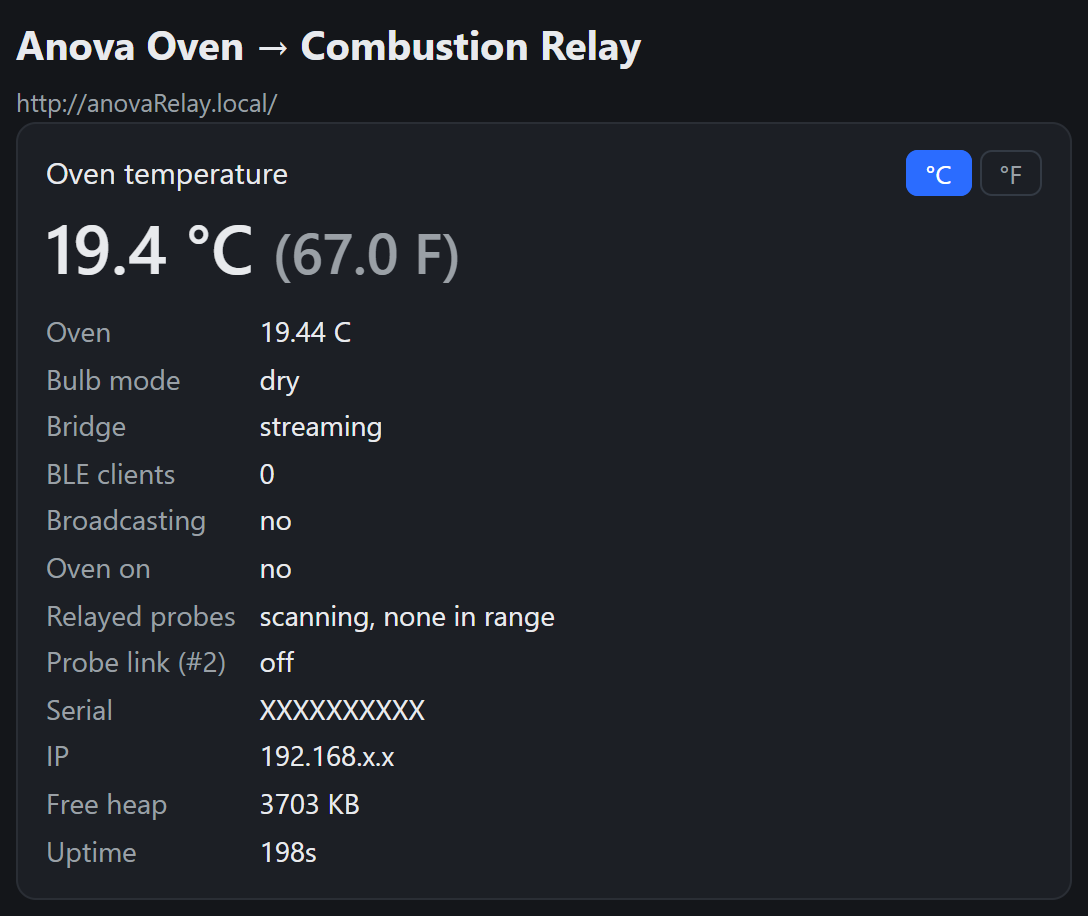
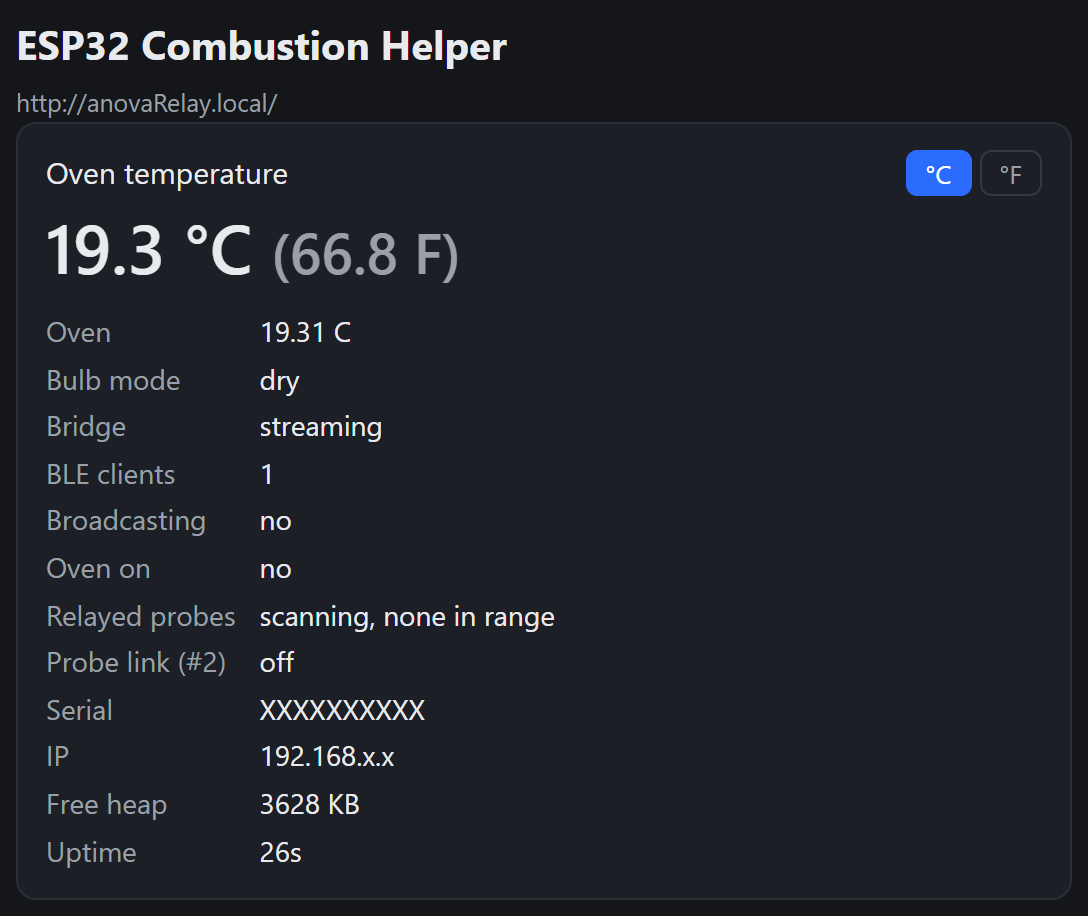
Rename project to ESP32 Combustion Helper
- Web UI title/heading, boot banner and module docstrings.
- README: new title and intro (oven as a Gauge in the Combustion app,
  multi-stage Engine profiles, MeatNet repeater); the device is now "the
  Helper" in the docs.
- Retake the status screenshot with the new name.

diff --git a/web.py b/web.py
@@ -1,4 +1,4 @@
-"""Tiny asyncio web UI for the Anova Oven to Combustion Relay (MicroPython).
+"""Tiny asyncio web UI for the ESP32 Combustion Helper (MicroPython).
 
 Serves a single-page config/control panel on port 80 once WiFi is up:
   GET  /         -> HTML page
@@ -104,7 +104,7 @@ def _parse_form(body):
 
 PAGE = """<!DOCTYPE html><html><head><meta charset="utf-8">
 <meta name="viewport" content="width=device-width,initial-scale=1">
-<title>Anova Oven to Combustion Relay</title>
+<title>ESP32 Combustion Helper</title>
 <style>
 :root{color-scheme:dark}
 *{box-sizing:border-box}
@@ -133,7 +133,7 @@ small{color:#9aa0a6}
 .st small{display:block;font-size:11px;white-space:nowrap;overflow:hidden}
 .st button{margin-top:0;padding:9px 12px}
 </style></head><body><div class="wrap">
-<h1>Anova Oven &rarr; Combustion Relay</h1>
+<h1>ESP32 Combustion Helper</h1>
 <small>http://__MDNS__.local/</small>
 <div class="card">
   <div>Oven temperature

diff --git a/main.py b/main.py
@@ -1,4 +1,4 @@
-"""Anova Oven to Combustion Relay for ESP32 (MicroPython).
+"""ESP32 Combustion Helper (MicroPython).
 
 Starts automatically on boot. Connect a serial terminal (e.g.
 `mpremote repl` or PuTTY at 115200) and type a temperature.
@@ -420,7 +420,7 @@ async def amain():
         except Exception as exc:
             sys.print_exception(exc)
             print("Engine control failed to start:", exc)
-    print("\nAnova Oven to Combustion Relay on ESP32")
+    print("\nESP32 Combustion Helper")
     print("Serial: %s  |  advertising 0x09C7 + DFU FE59 scan response" %
           gauge.serial)
     if cfg.get("wifi_ssid"):

diff --git a/protocol.py b/protocol.py
@@ -1,4 +1,4 @@
-"""Combustion Gauge BLE protocol (MicroPython) - Anova Oven to Combustion Relay.
+"""Combustion Gauge BLE protocol (MicroPython) - ESP32 Combustion Helper.
 
 Wire formats for the Combustion BLE protocol, written for MicroPython
 (no dataclasses/typing/enum).

diff --git a/README.md b/README.md
@@ -1,24 +1,23 @@
-# Anova Oven to Combustion Relay — ESP32 (MicroPython)
+# ESP32 Combustion Helper
 
-Bridges an Anova Precision Oven's live temperature into the Combustion app by
-presenting as a Combustion Gauge-class node over BLE. 
+An ESP32 (MicroPython) companion for the Combustion Inc. ecosystem.
 
-<img src="docs/screenshots/status.png" alt="Web UI: live oven temperature and relay status" width="420" align="right">
+<img src="docs/screenshots/status.png" alt="Web UI: live oven temperature and status" width="420" align="right">
 
-What it does:
+- **Exposes your Anova oven as a Gauge in the Combustion app.** The oven's
+  live temperature (wet bulb in sous-vide mode, dry bulb otherwise, from the
+  official Anova API) appears as a Gauge. You can even pick it as a
+  Combustion **Engine**'s control device, so the Engine regulates to the
+  oven's temperature.
+- **Lets you build Engine profiles, not just one temperature.** Multi-stage
+  cooks where the Engine's set point changes after a set time and/or when
+  the probe's virtual core temperature is reached (e.g. the built-in
+  *Quicker Pulled Pork*).
+- **Also works as a MeatNet repeater.** Relays nearby probes'
+  advertisements to extend range, with an optional probe connect proxy.
 
-- **Virtual gauge:** the oven's temperature (wet bulb in sous-vide mode, dry
-  bulb otherwise, from the official Anova API) shows up in the Combustion
-  app as a Gauge.
-- **Oven as the Engine's control device:** pick the virtual gauge in the
-  Combustion app and a Combustion **Engine** regulates to the oven's
-  temperature.
-- **Engine cook profiles:** multi-stage set point changes triggered by time
-  and/or the probe's virtual core temperature (e.g. the built-in *Quicker
-  Pulled Pork*).
-- **MeatNet repeater:** relays nearby probes' advertisements, with an
-  optional probe connect proxy.
-- **Web UI** at `http://anovarelay.local/` with live status, logs and °C/°F.
+All of it is managed from a web UI at `http://anovarelay.local/` with live
+status, logs and °C/°F.
 
 The gauge serial is derived from the chip MAC.
 
@@ -155,13 +154,13 @@ open `http://anovarelay.local/` from any browser or phone on the same network
 
 ### Using the oven as the Engine's control device
 
-In the Combustion app you can pick the relay's virtual gauge as the Engine's
+In the Combustion app you can pick the Helper's virtual gauge as the Engine's
 control device, so the Engine regulates to the **oven's** temperature. A real
 Gauge does this by connecting *out* to the Engine and pushing its Gauge
 Status (0x60) over MeatNet UART; the Engine never connects to the gauge.
-The relay does the same:
+The Helper does the same:
 
-- It's automatic: the relay checks the Engine's control device, and while
+- It's automatic: the Helper checks the Engine's control device, and while
   it's this gauge, holds a link to the Engine and sends the gauge status
   every second. Choose another control device in the app to stop it. The
   web UI's "Oven → Engine" line shows what it's doing.
@@ -176,7 +175,7 @@ If the oven is cold and the set point is high, the fan runs flat out.
 
 ### Combustion Engine cook profiles
 
-The relay can drive a **Combustion Engine**'s set point through a multi-stage
+The Helper can drive a **Combustion Engine**'s set point through a multi-stage
 cook profile. Each stage sets the Engine, then moves on when **any** of its
 triggers fires:
 
@@ -211,7 +210,7 @@ How it works:
 - The Engine's set point and the probe's core temperature are read
   **passively from BLE advertisements** (the probe's own, or repeated by the
   Engine/other nodes). Unless the oven is the Engine's control device (see
-  above), the relay only connects to the Engine while it's changing the set
+  above), the Helper only connects to the Engine while it's changing the set
   point, then disconnects after ~15 s, so it doesn't hold one of the
   Engine's connection slots or the probe's.
 - Changes are sent the way the official app does it: send, re-send every 5 s,
@@ -241,5 +240,5 @@ Set in the web UI Control section (persisted as `relay_probes`): **Off**,
 **On**, or **Only while oven is on** (default). When active, the device scans for nearby Combustion **probes** advertising
 directly (product type 1) and re-broadcasts each one as a repeated MeatNet
 **node** advertisement (product type 2) with the hop-count byte set, so the
-probe's live temperature reaches the app *through* this relay when the probe
+probe's live temperature reaches the app *through* the Helper when the probe
 is out of the phone's range. 
